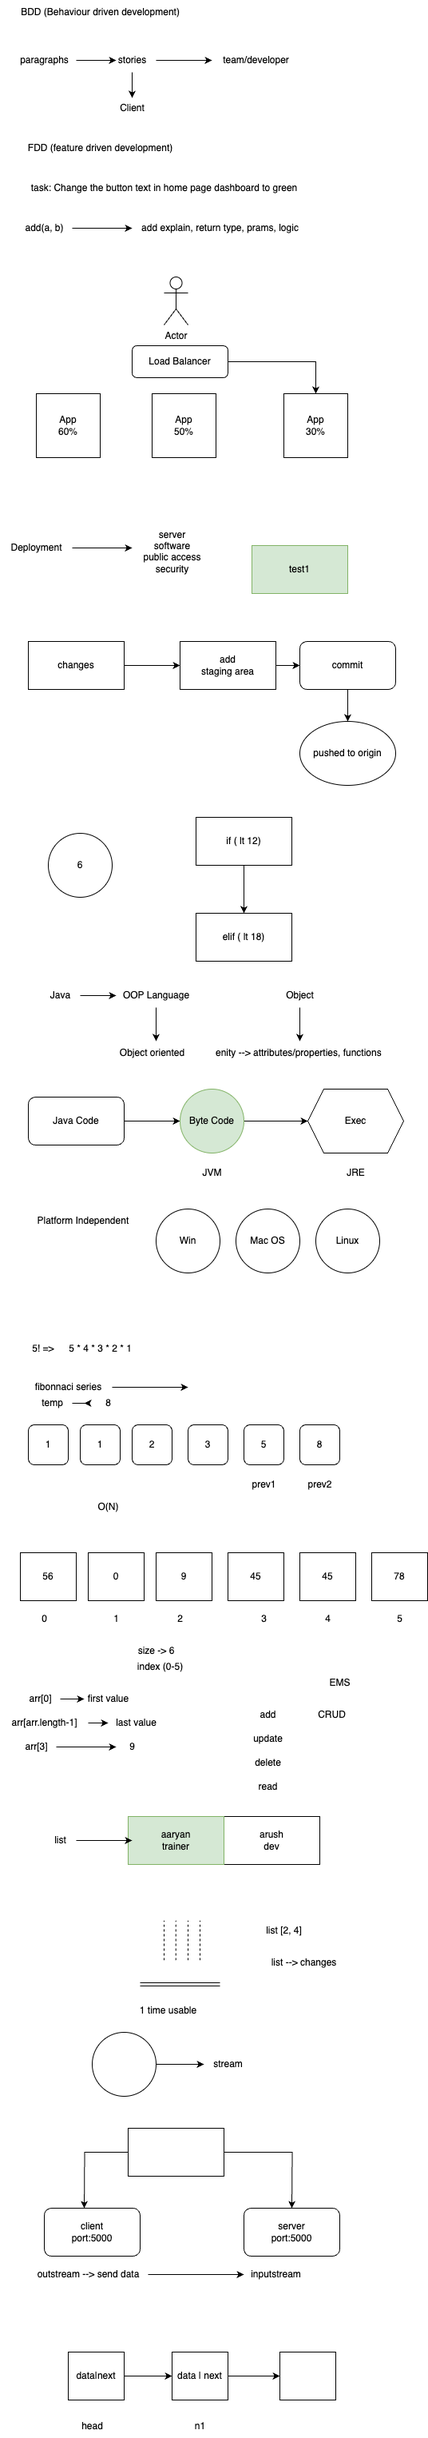
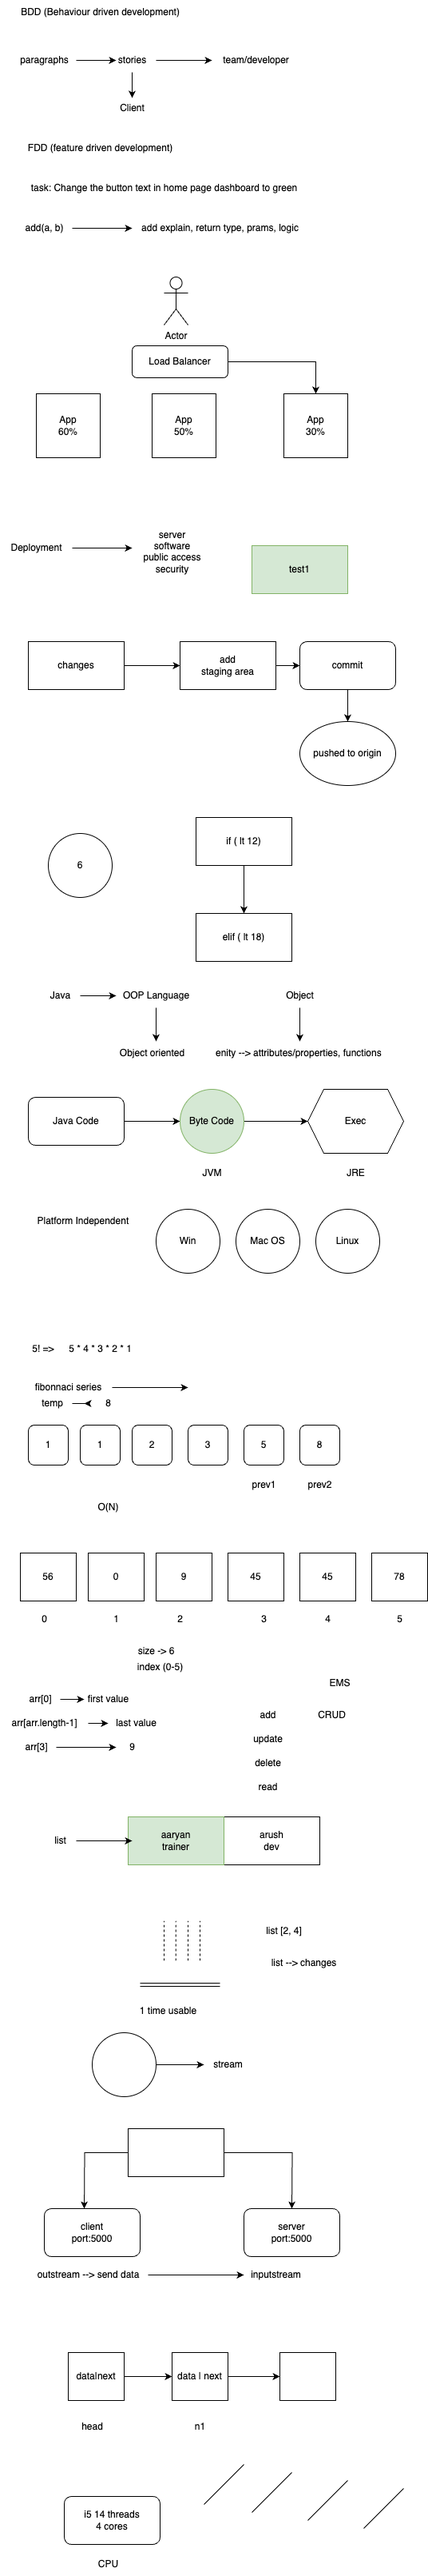
multithreading

diff --git a/java practice/th.java b/java practice/th.java
@@ -1,0 +1,19 @@
+public class th {
+    public static void printHelloWorld() {
+        for (int i = 0; i < 10; i++) {
+            System.out.println("hello world");
+        }  
+    }
+
+    public static void main(String[] args) throws InterruptedException {
+        Thread th = new Thread(() -> printHelloWorld());
+        Thread th2 = new Thread(() -> System.out.println(2 + 2));
+        // System.out.println(3 + 3);     
+
+        Thread.sleep(3000); // wait
+        th.start();
+        // th.join();
+        th2.start();
+        
+    }
+}
